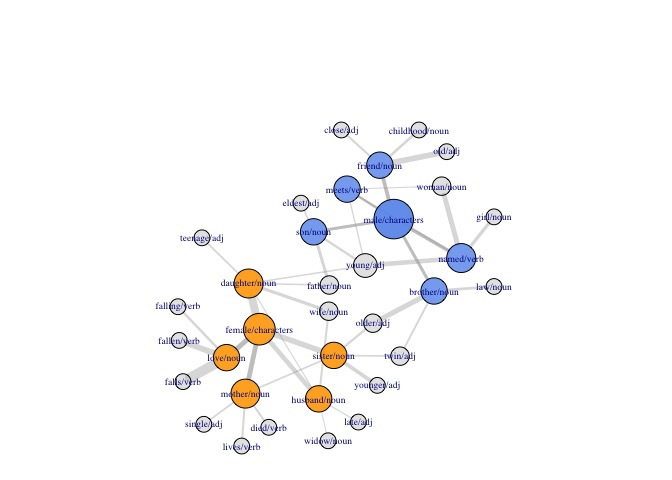
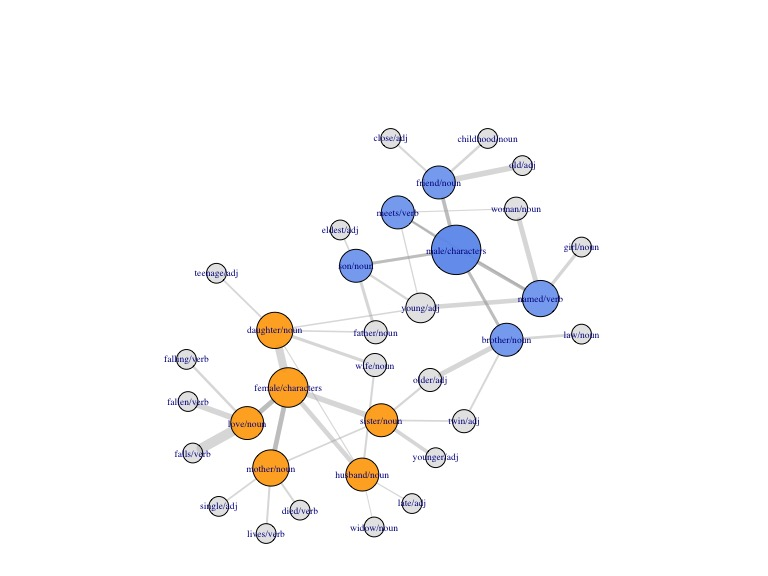
update README.md

Changed region(s): [[0.2188, 0.2188, 0.7812, 0.9688], [0.25, 0.4375, 0.3438, 0.5312]]

diff --git a/docs/README.md b/docs/README.md
@@ -276,7 +276,7 @@ ggplot(sents_df, aes(x = decade, n_sents)) +
   theme_linedraw() + ylab('no. of sentences')
 ```
 
-![](README_files/figure-gfm/unnamed-chunk-9-1.jpeg)<!-- -->
+![](README_files/figure-gfm/unnamed-chunk-9-1.png)<!-- -->
 
 ``` r
 #plot number of words per sentence across decades
@@ -297,7 +297,7 @@ ggplot(words_df, aes(x = decade, wordspsents)) +
   theme_linedraw() + ylab('words per sentence')
 ```
 
-![](README_files/figure-gfm/unnamed-chunk-9-2.jpeg)<!-- -->
+![](README_files/figure-gfm/unnamed-chunk-9-2.png)<!-- -->
 
 ``` r
 set.seed(42) #for replication
@@ -474,20 +474,15 @@ graph_demo = grapherdemo(5, token_filter3('all', 1940, 2020, token.all))
 ``` r
 g_demo = graph_demo[[1]]
 #visIgraph(g_demo)
-plot(g_demo, vertex.label = NA, edge.curved=FALSE)
-```
-
-![](README_files/figure-gfm/unnamed-chunk-12-1.jpeg)<!-- -->
-
-``` r
+#plot(g_demo, vertex.label = NA, edge.curved=FALSE)
 #tkplot(g_demo)
 #coords_demo <- tkplot.getcoords(1)
 #save(coords_demo, file = 'coords_demo.RData')
 load(file= 'coords_demo.RData')
-plot(g_demo, vertex.label.cex = 0.6, edge.curved=FALSE, layout = coords_demo)
+plot(g_demo, vertex.label.cex = 0.6, vertex.label.dist = 0, edge.curved=FALSE, layout = coords_demo)
 ```
 
-![](README_files/figure-gfm/unnamed-chunk-12-2.jpeg)<!-- -->
+![](README_files/figure-gfm/unnamed-chunk-12-1.png)<!-- -->
 
 ## Complete Graph
 
@@ -499,7 +494,7 @@ graph = grapherdemo(21, token_filter3('all', 1940, 2020, token.all)) #create gra
  visIgraph(g) #%>% visNodes(font = list(size = 26))  #display
 ```
 
-![](README_files/figure-gfm/unnamed-chunk-13-1.jpeg)<!-- -->
+![](README_files/figure-gfm/unnamed-chunk-13-1.png)<!-- -->
 
 ## Significant Tropes in the Network
 
@@ -595,7 +590,7 @@ fprimary_tropes = female_ps
  visIgraph(g)
 ```
 
-![](README_files/figure-gfm/unnamed-chunk-14-1.jpeg)<!-- -->
+![](README_files/figure-gfm/unnamed-chunk-14-1.png)<!-- -->
 
 ``` r
  #all_edges$V3[malet_bool]
@@ -620,4 +615,4 @@ fprimary_tropes = female_ps
  visIgraph(g_trim) %>% visNodes(font = list(size = 26))
 ```
 
-![](README_files/figure-gfm/unnamed-chunk-14-2.jpeg)<!-- -->
+![](README_files/figure-gfm/unnamed-chunk-14-2.png)<!-- -->
